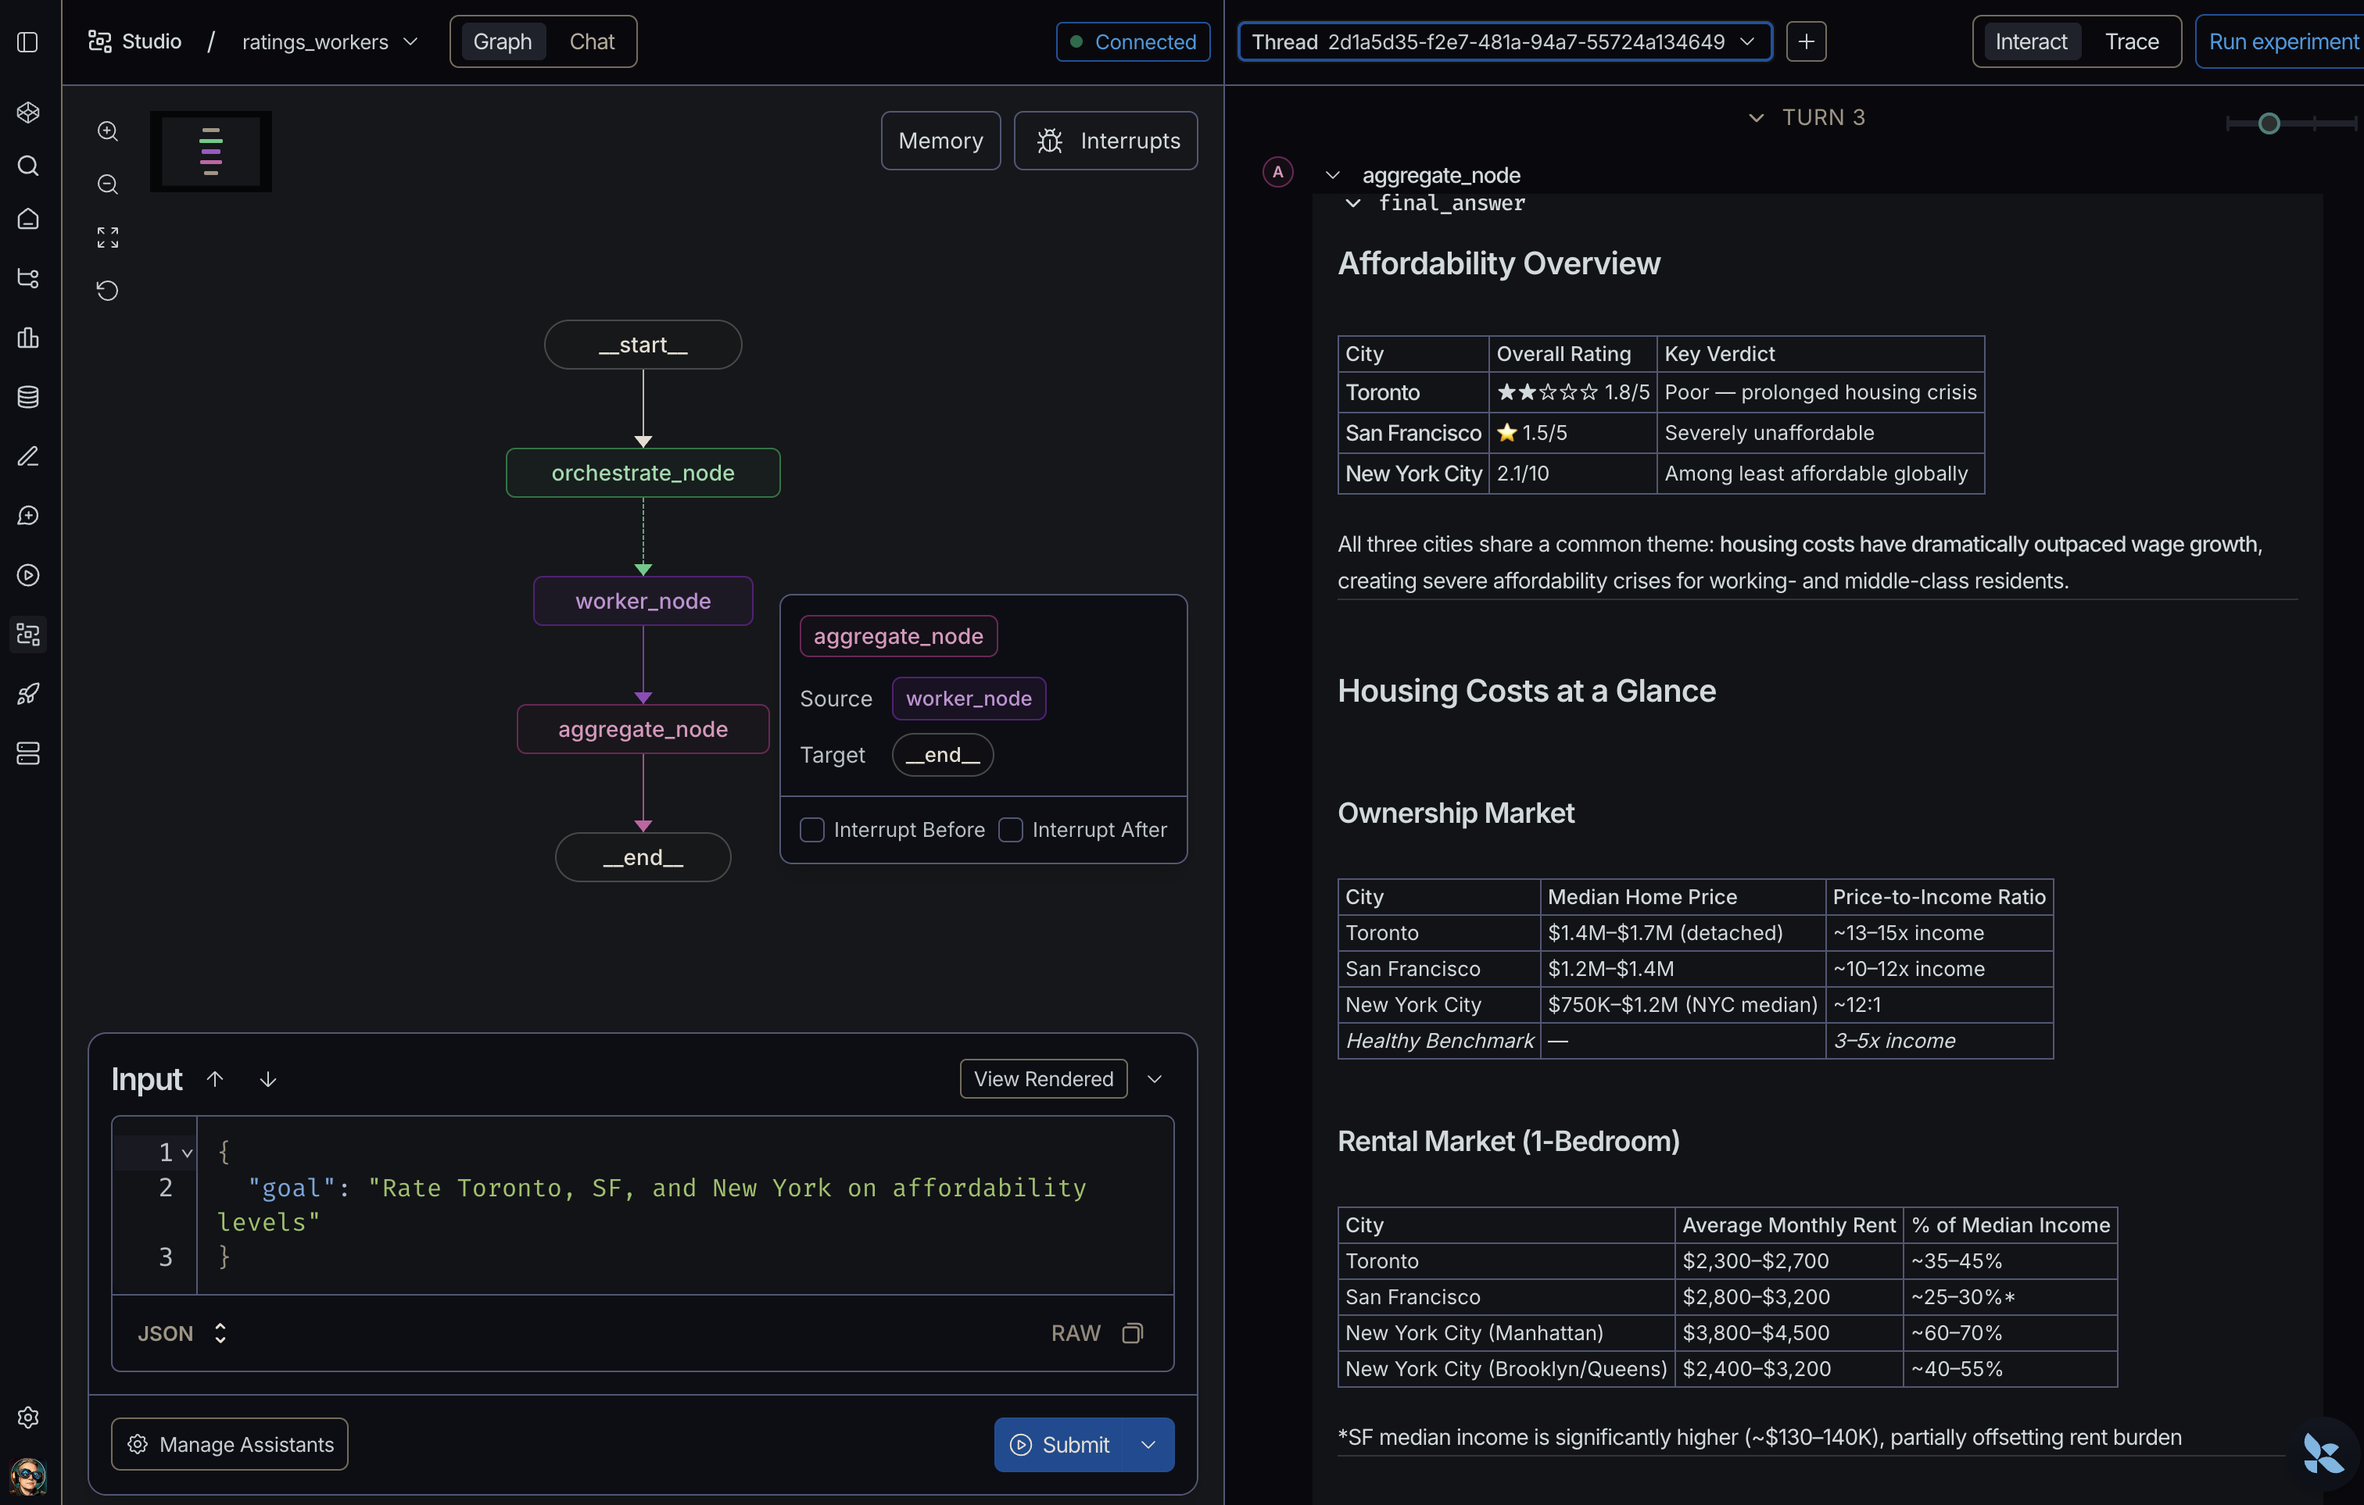
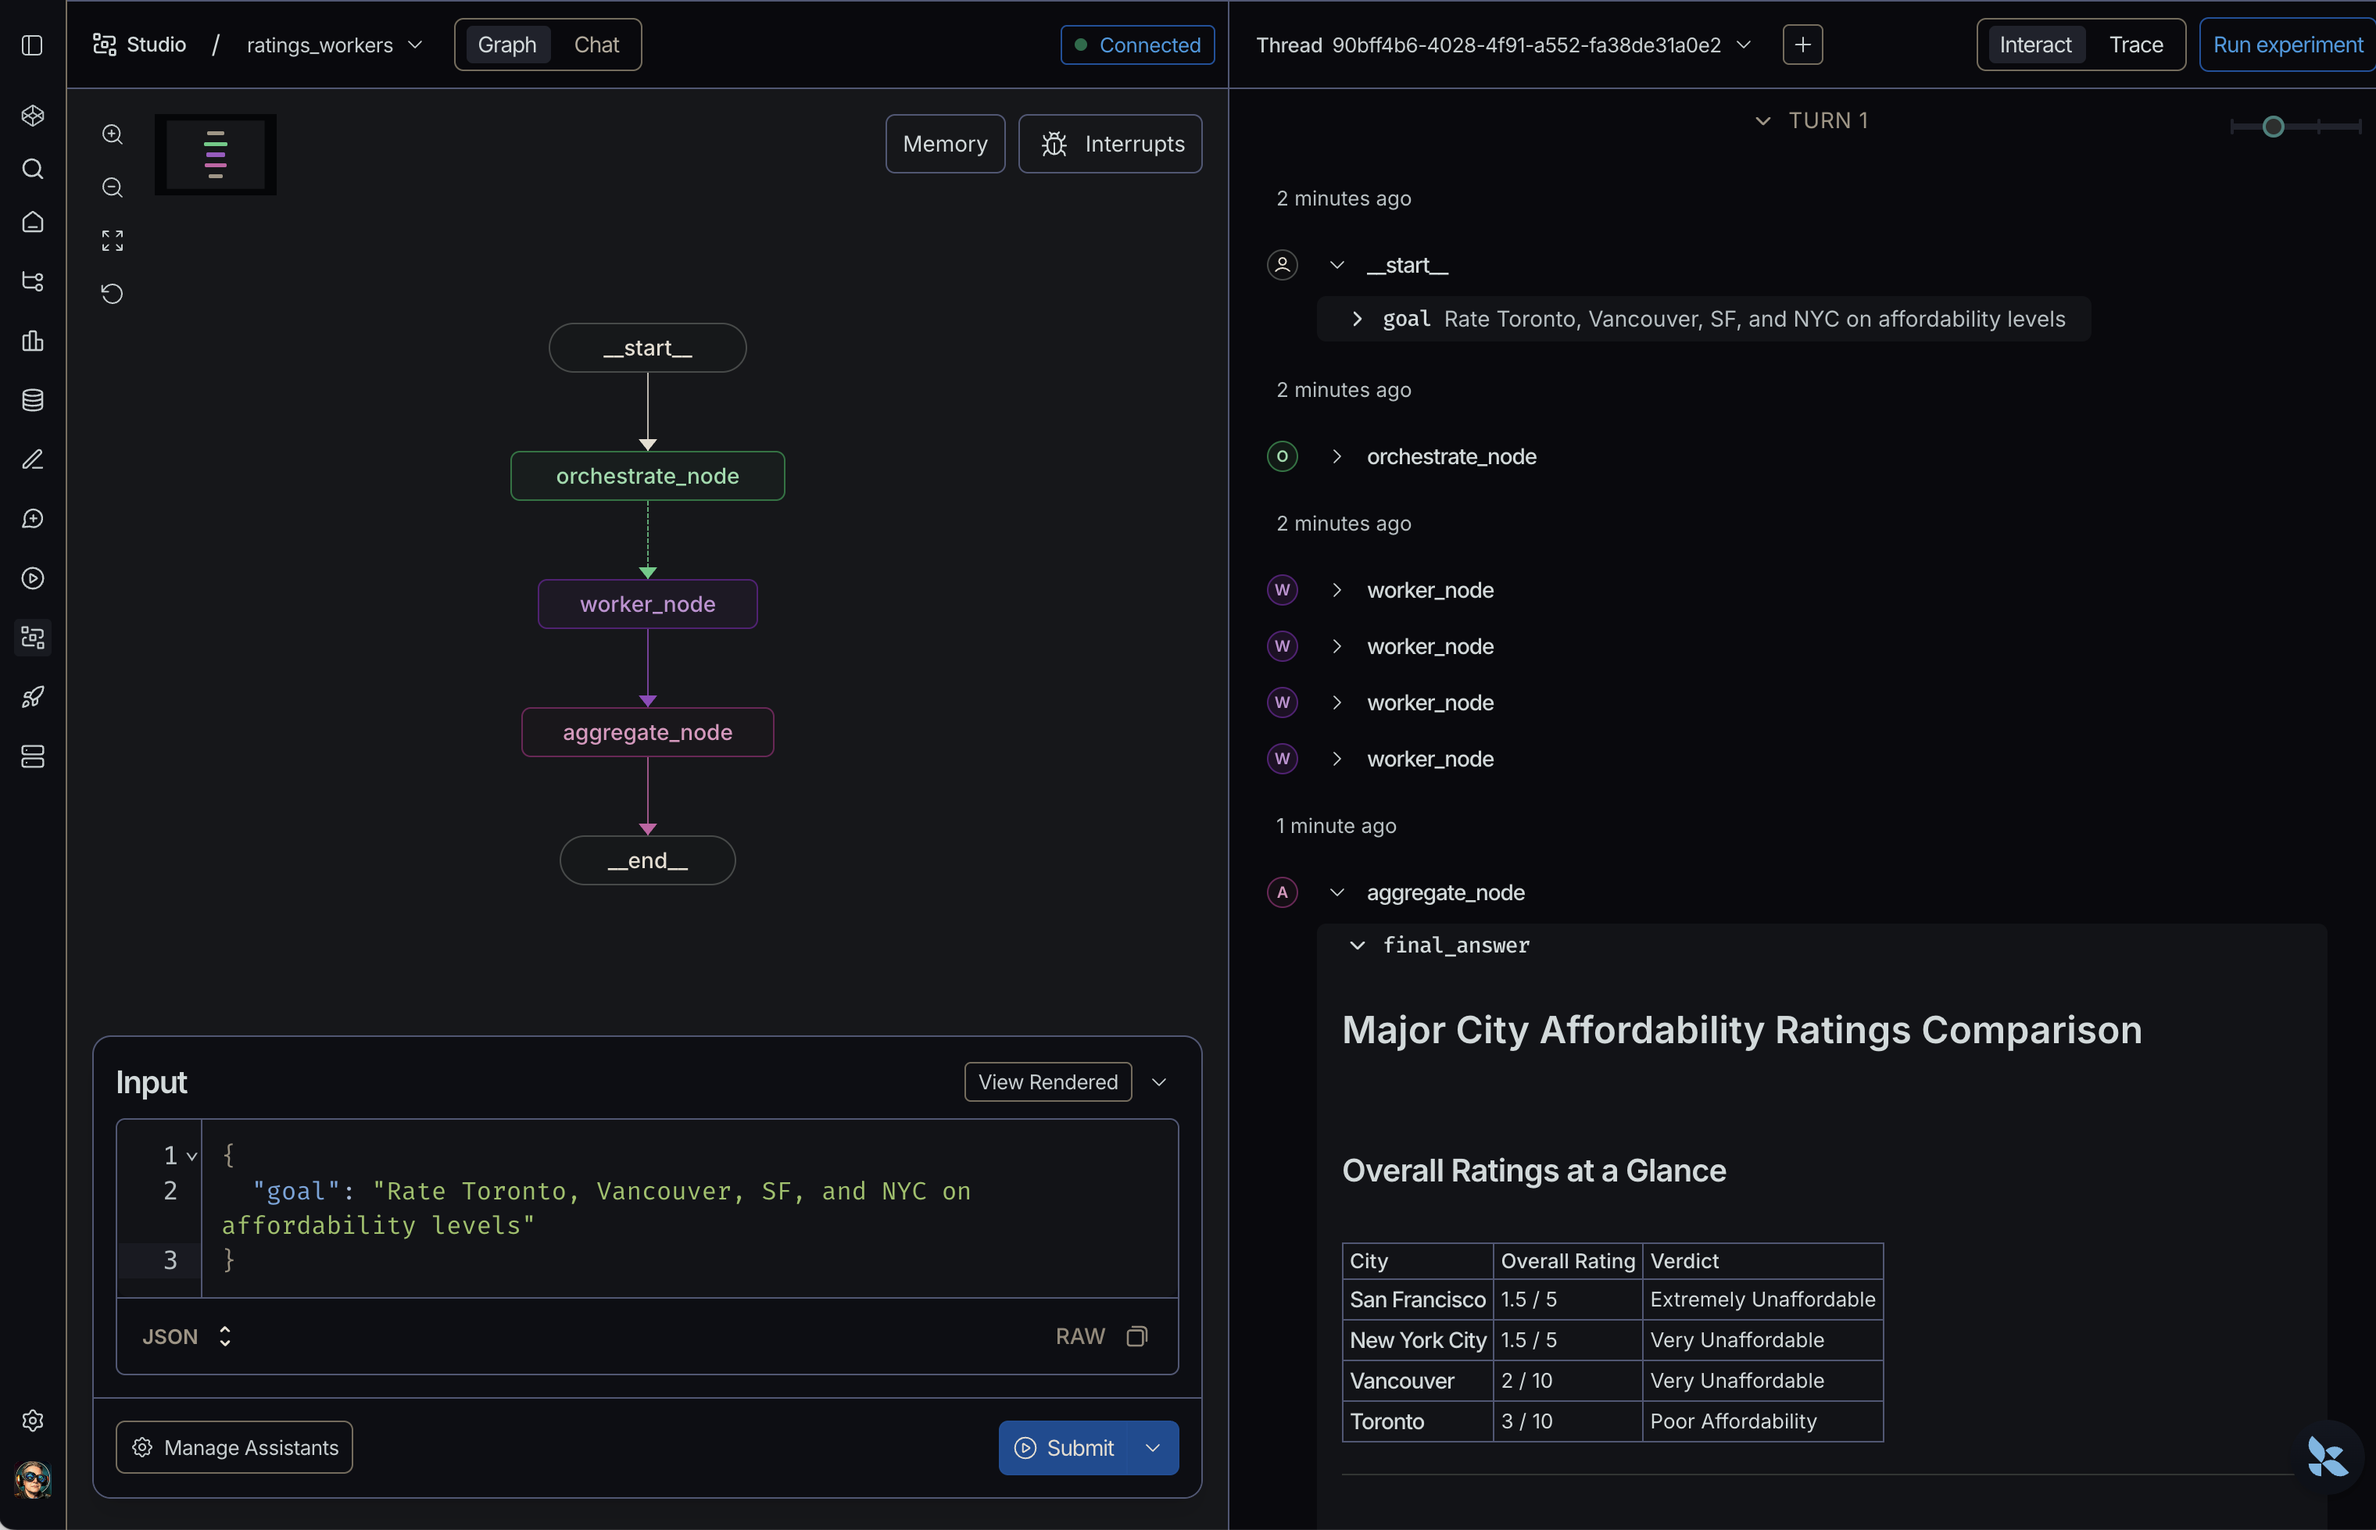
Make Studio version determine num of workers from requested goal

diff --git a/orchestrator-worker/studio/orchestrator_worker_langgraph.py b/orchestrator-worker/studio/orchestrator_worker_langgraph.py
@@ -64,7 +64,6 @@ class OrchestratorState(TypedDict):
 # ---------------------------------------------------------------------------
 
 LLM = ChatAnthropic(model="claude-sonnet-4-6", temperature=0)
-NUM_WORKERS = 3
 
 
 # ---------------------------------------------------------------------------
@@ -76,8 +75,10 @@ NUM_WORKERS = 3
 _decompose_chain = (
     ChatPromptTemplate.from_messages([
         ("system",
-         "You are an orchestrator. Break the user's goal into exactly {n} "
-         "independent sub-tasks. Output one sub-task per line, no numbering."),
+         "You are an orchestrator. Break the user's goal into the minimum number "
+         "of independent sub-tasks needed. Each sub-task should map to one natural "
+         "unit of work (e.g. one item, one entity, one category) — do NOT split a "
+         "single unit into multiple sub-tasks. Output one sub-task per line, no numbering."),
         ("human", "{goal}"),
     ])
     | LLM
@@ -86,9 +87,10 @@ _decompose_chain = (
 
 
 async def orchestrate_node(state: OrchestratorState) -> dict:
-    raw = await _decompose_chain.ainvoke({"goal": state["goal"], "n": NUM_WORKERS})
+    raw = await _decompose_chain.ainvoke({"goal": state["goal"]})
     lines = [l.strip() for l in raw.strip().splitlines() if l.strip()]
-    lines = (lines + ["(no task)"] * NUM_WORKERS)[:NUM_WORKERS]
+    if not lines:
+        lines = [state["goal"]]
 
     tasks = [
         TaskItem(task_id=str(uuid.uuid4()), partition=i, payload=p)

diff --git a/README.md b/README.md
@@ -32,7 +32,7 @@ Two implementations are provided:
 
 **CLI version** — runs a credit risk analysis of a fictional company, Acme Precision Parts Inc. The financial data (income statement, balance sheet, cash flows, debt schedule, and peer comparisons) is provided as a document payload in [`orchestrator-worker/payload.md`](orchestrator-worker/payload.md).
 
-**LangGraph Studio version** ([`studio/`](orchestrator-worker/studio/)) — a general-purpose version that takes any goal as free-text input and does not require a document payload. In the Studio input panel, provide only the `goal` field as JSON, e.g. `{"goal": "Rate the top 3 sci-fi movies of 2025"}`. All other state fields are populated automatically by the graph.
+**LangGraph Studio version** ([`studio/`](orchestrator-worker/studio/)) — a general-purpose version that takes any goal as free-text input and does not require a document payload. The number of workers is not fixed — the orchestrator analyzes the goal and determines how many sub-tasks are needed (e.g. a goal comparing 4 cities produces 4 workers). In the Studio input panel, provide only the `goal` field as JSON, e.g. `{"goal": "Rate Toronto, Vancouver, SF, and NYC on affordability levels"}`. All other state fields are populated automatically by the graph.
 
 ![Studio example](orchestrator-worker/studio/studio_screenshot.png)
 
